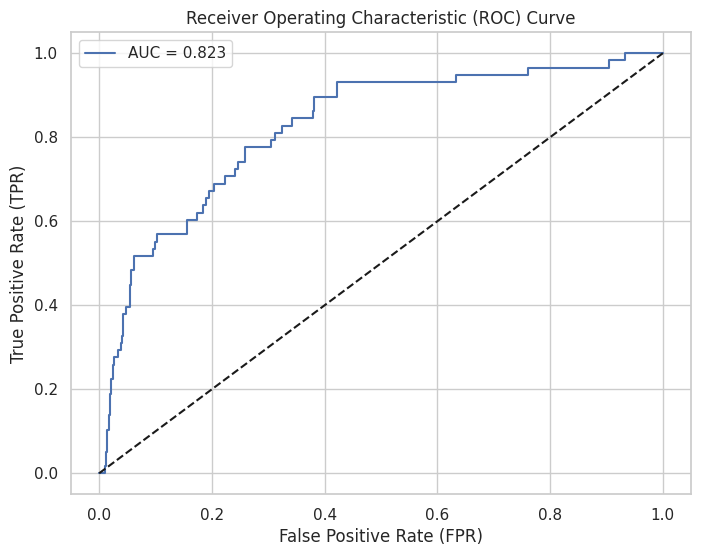
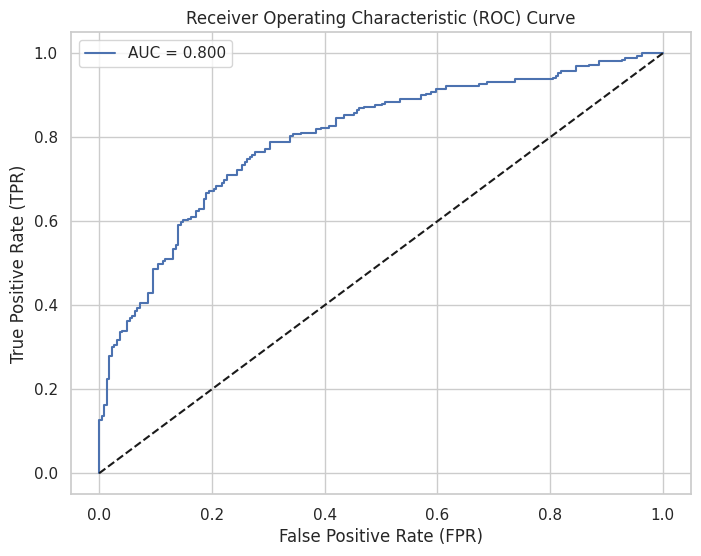
update readme

diff --git a/README.md b/README.md
@@ -440,16 +440,6 @@ Abbiamo misurato usando k-fold cross-validation l'intervallo di accuratezza che 
 
 ## Naive bayes
 
-A partire dal nostro training set bilanciato con l'utilizzo di SMOTE:
-```python
-X = newdf.iloc[:, :-1]
-y = newdf['qualityRange']
-X_train, X_test, y_train, y_test = train_test_split(X, y, test_size=0.30, random_state=15)
-
-smote = SMOTE()
-X_train, y_train = smote.fit_resample(X_train, y_train)
-```
-
 Iniziamo ad allenare il modello senza il tuning degl'iperparametri:
 
 ```python
@@ -483,39 +473,21 @@ print(conf_matrix_test)
 ```
 
 <p align="center">
-  <img src="images/naiveBayesNoSmote.png" width="100%">
+  <img src="images/nbPrimaIterazione.png" width="100%">
 </p>
 
 
-### Risultati sul set di addestramento:
-- Accuracy Score: Il modello ha ottenuto un'accuratezza del 78.33% sul set di addestramento, 
-indicando che è stato in grado di predire correttamente la classe di circa il 78.33% delle 
-osservazioni.
+### Considerazioni:
+I risultati dei sui due set suggeriscono che il modello ha una buona capacità di generalizzazione mantenendo un'equa performance tra le diverse classi.
 
-- Classification Report: L'analisi del report di classificazione mostra che il modello ha 
-una precisione, recall e f1-score di circa il 78% per entrambe le classi ("bad" e "good"). 
-La performance equilibrata suggerisce che il modello sta affrontando entrambe le classi in modo simile.
+- Accuracy Score: Il modello ha ottenuto un'accuratezza abbastanza alta sul set di 
+ addestramento e test, indicando che è stato in grado di predire correttamente le due classi.
 
-- Confusion Matrix: La matrice di confusione indica che il modello ha commesso alcuni errori 
-nella classificazione. Ad esempio, ha classificato erroneamente 228 osservazioni della classe
-"bad" come "good" e 188 osservazioni della classe "good" come "bad".
+- Classification Report: La precision, il recall e l'f1-score sono bilanciati per 
+ entrambe le classi ("bad" e "good"), con performance simili per le due categorie.
 
-### Risultati sul set di test:
-- Accuracy Score: Il modello ha ottenuto un'accuratezza del 75.83% sul set di test, 
-indicando che è stato in grado di predire correttamente la classe di circa il 75.83% 
-delle osservazioni.
-
-- Classification Report: Analizzando il report di classificazione sul set di test, 
-notiamo che il modello ha una precisione del 94% per la classe "bad", ma una 
-precisione del 29% per la classe "good". La bassa precisione per la classe "good" 
-suggerisce che il modello ha difficoltà a identificare bene la classe, questo
-è dovuto al fatto che il test set è sbilanciato (con la classe "good" in minoranza)
-perché solo il training set è stato bilanciato con l'uso di smote 
-(generalmente non si applica SMOTE al test set).
-
-- Confusion Matrix: La matrice mostra che il modello ha commesso errori nella 
-classificazione della classe "good", con 97 osservazioni erroneamente 
-classificate come "bad" e 19 osservazioni della classe "good" erroneamente classificate come "bad".
+- Accuracy Score: Il modello ha ottenuto un'accuratezza sul test set simile al training, 
+ indicando che è stato in grado di predire correttamente le classi.
 
 ### Receiver Operating Characteristic (ROC) Curve
 
@@ -549,14 +521,13 @@ print("AUC Score:", auc)
 ```
 
 <p align="center">
-  <img src="images/naiveBayesCurvaRocWithSmote.png" width="100%">
+  <img src="images/nbPrimaIterazioneAUC.png" width="100%">
 </p>
 
-
-Con un AUC di 0.81, il modello ha una buona capacità predittiva, questo significa che ha una 
-buona capacità di distinguere tra le due classi (positiva e negativa) in base alle 
-probabilità predette (un valore maggiore di 0.5 suggerisce che il modello sta 
-superando una classificazione casuale).
+Un AUC Score di 0.7975 suggerisce che il modello ha una buona capacità di discriminazione, 
+poiché si trova significativamente sopra la linea di base (AUC di 0.5). Tuttavia, potrebbe 
+essere utile esaminare il trade-off tra precision e recall e considerare l’importanza relativa 
+di falsi positivi e falsi negativi.
 
 ### Tuning degl'iperparametri con GridSearch
 
@@ -628,11 +599,11 @@ print(conf_matrix_test)
 ```
 
 <p align="center">
-  <img src="images/naiveBayesGridSearch.png" width="100%">
+  <img src="images/nbSecondaIterazioneReport.png" width="100%">
 </p>
 
 ### Risultati sul set di addestramento
-La precisione complessiva sul set di addestramento sembra buona, con un'accuracy del 78.9%.
+La precisione complessiva sul set di addestramento sembra buona.
 La matrice di confusione mostra che il modello ha una tendenza a classificare meglio la classe 
 "good" rispetto alla classe "bad", ma potrebbe esserci una certa confusione tra le classi, come 
 indicato dai falsi positivi e falsi negativi.
@@ -683,9 +654,13 @@ print("AUC Score:", auc)
   <img src="images/naiveBayesCurvaRocGridSearch.png" width="100%">
 </p>
 
-L'aumento dell'AUC da 0.81 a 0.823 dopo l'applicazione di GridSearch indicare un 
-miglioramento marginale nelle prestazioni del modello Naive Bayes. Tuttavia, è importante notare 
-che il miglioramento è relativamente modesto.
+Il modello sembra generalizzare bene dal set di addestramento al set di test, poiché l'accuracy e le metriche di precision, recall e F1-score sono coerenti tra i due set.
+L'accuracy è intorno al 73%, indicando una buona capacità predittiva complessiva del modello.
+La precision e la recall sono bilanciate, con valori simili per entrambe le classi, indicando che il modello ha una buona capacità di distinguere tra le classi "bad" e "good".
+La matrice di confusione mostra che il modello è in grado di predire abbastanza accuratamente sia le istanze "bad" che "good".
+
+La scelta del parametro 'var_smoothing' tramite GridSearch sembra aver migliorato di poco le prestazioni del modello rispetto alla prima iterazione.
+
 
 
 
